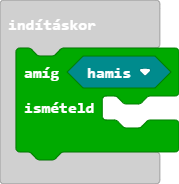
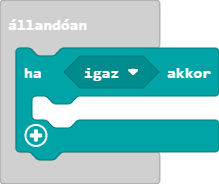
main.blocks, main.ts frissítése

diff --git a/main.ts b/main.ts
@@ -2,5 +2,7 @@ while (false) {
 	
 }
 basic.forever(function () {
-	
+    if (true) {
+    	
+    }
 })
